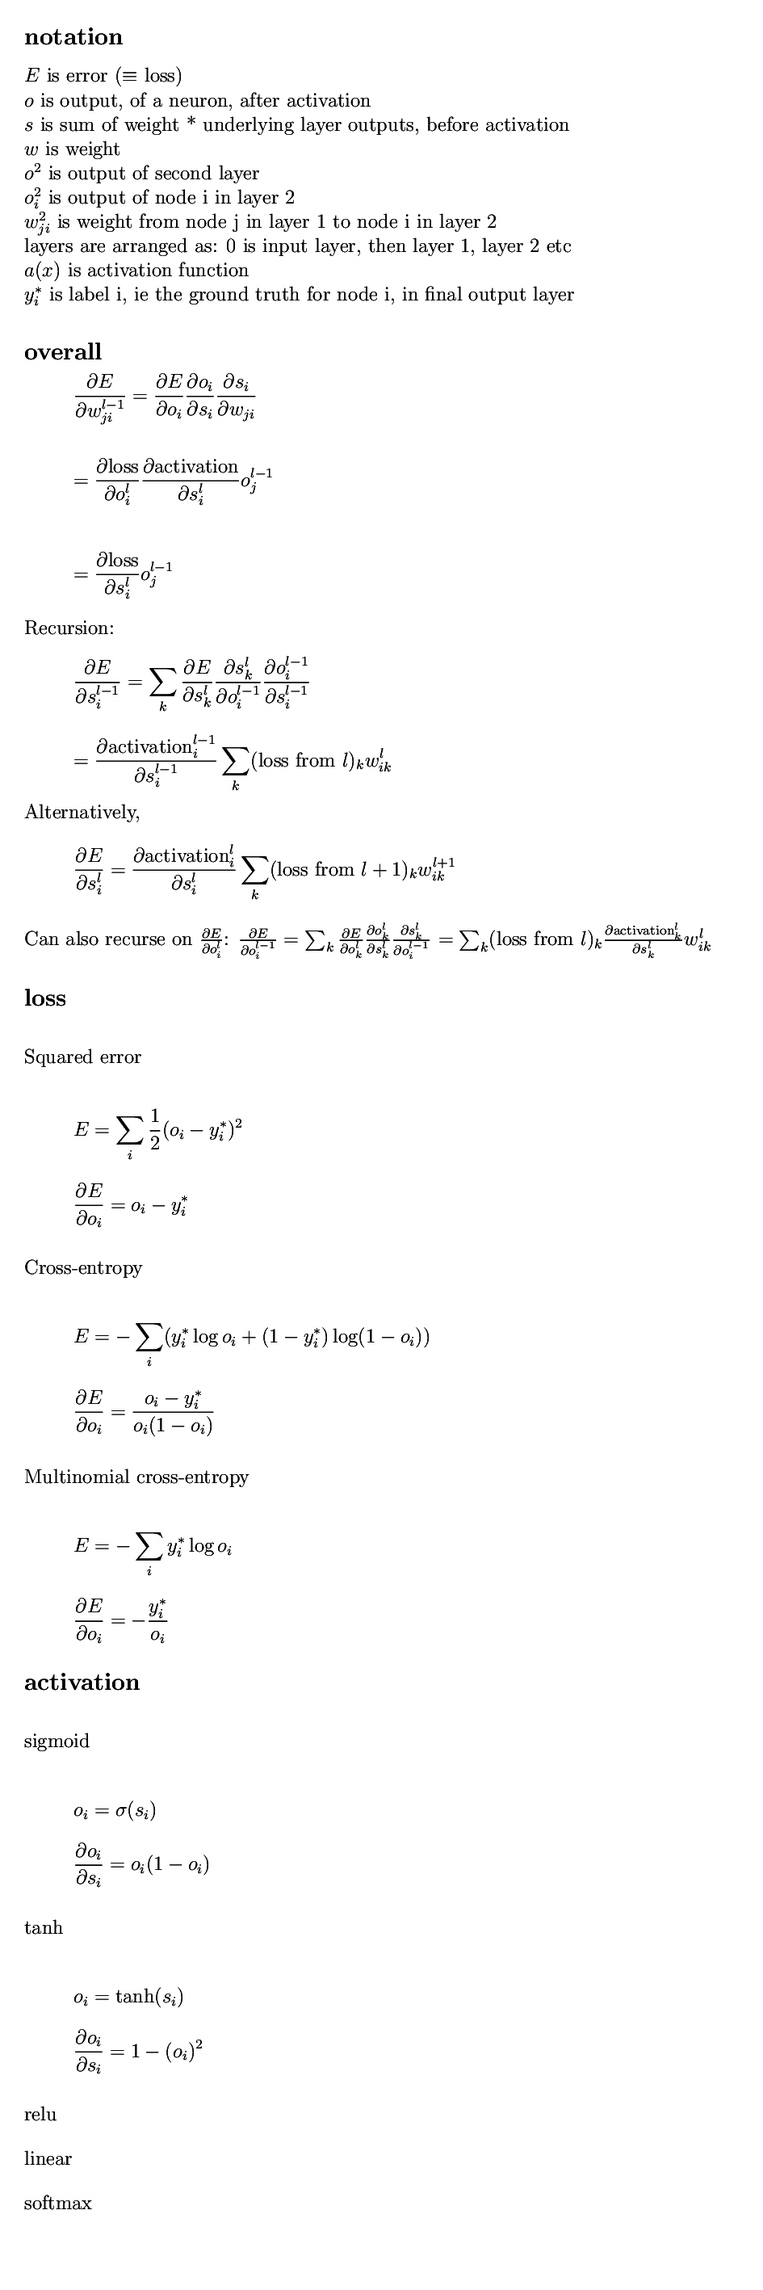
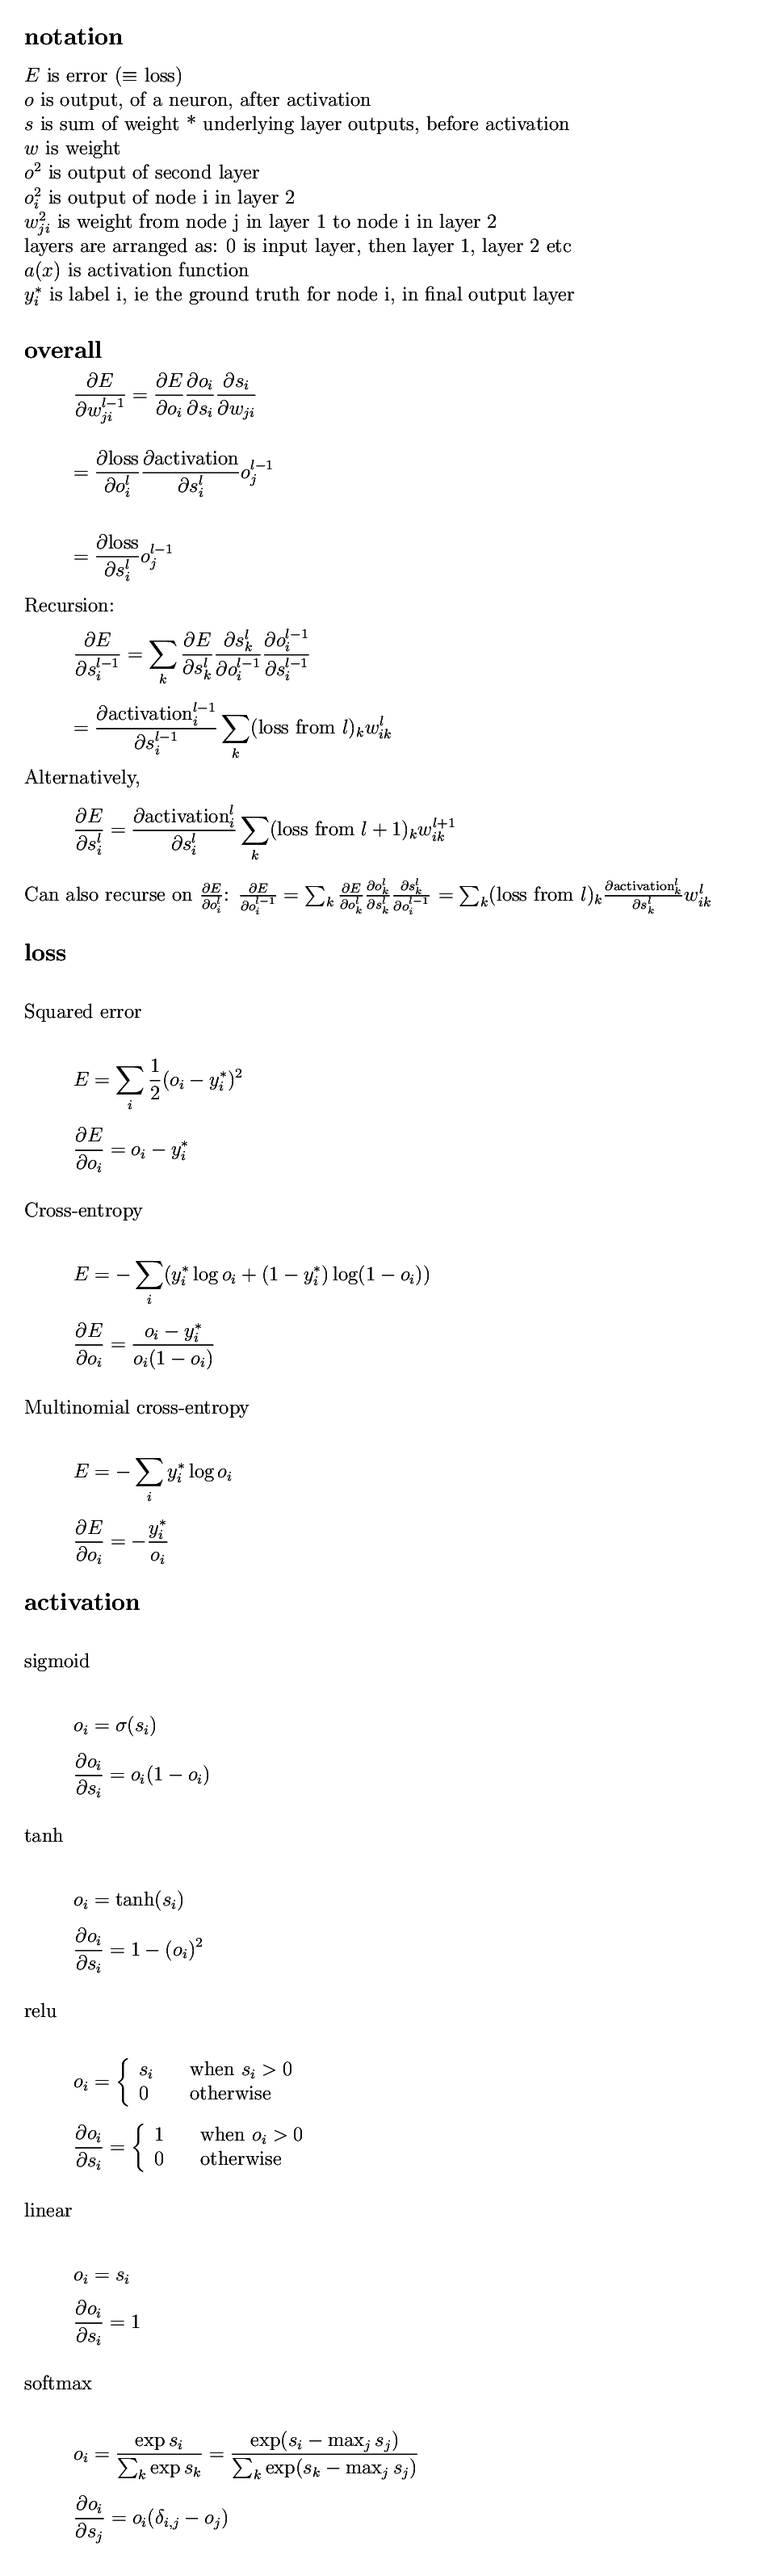
fill in missing formulae, for completeness

diff --git a/notes-formulae.tex b/notes-formulae.tex
@@ -17,7 +17,7 @@
 %\newgeometry{left=2cm,bottom=1.5cm,top=1.5cm,right=2cm}
 %\usepackage{geometry}
 \usepackage[margin=0.2in]{geometry}
-\geometry{paperwidth=16cm,paperheight=48cm}
+\geometry{paperwidth=16cm,paperheight=54cm}
 
 \newcommand{\ult}{\vspace{12px}\noindent}
 \newcommand{\ul}{\\ \indent -  }
@@ -83,17 +83,38 @@ Can also recurse on $\partialderivative{E}{o^l_i}$: $\partialderivative{E}{o^{l-
 
 \ult{sigmoid}
 
-\[ o_i = \sigma(s_i) \] \[ \partialderivative{o_i}{s_i} = o_i(1-o_i) \]
+\[ o_i = \sigma(s_i) \] 
+\[ \partialderivative{o_i}{s_i} = o_i(1-o_i) \]
 
 \ult{tanh}
 
-\[ o_i = \tanh(s_i) \] \[ \partialderivative{o_i}{s_i} = 1-(o_i)^2 \]
+\[ o_i = \tanh(s_i) \] 
+\[ \partialderivative{o_i}{s_i} = 1-(o_i)^2 \]
 
 \ult{relu}
 
+\[ o_i = \left\{
+    \begin{array}{l l}
+        s_i & \quad \text{when $s_i > 0$} \\
+        0 & \quad \text{otherwise} 
+    \end{array} \right.
+\] 
+\[ \partialderivative{o_i}{s_i} = \left\{
+    \begin{array}{l l}
+        1 & \quad \text{when $o_i > 0$} \\
+        0 & \quad \text{otherwise} 
+    \end{array} \right.
+\] 
+
 \ult{linear}
 
+\[ o_i = s_i \] 
+\[ \partialderivative{o_i}{s_i} = 1 \]
+
 \ult{softmax}
+
+\[ o_i = \frac{ \exp s_i }{\sum_k \exp s_k} = \frac{\exp (s_i - \max_j s_j) }{\sum_k \exp( s_k -\max_j s_j)} \] 
+\[ \partialderivative{o_i}{s_j} = o_i(\delta_{i,j} - o_j) \]
 
 \end{document}
 

diff --git a/README.md b/README.md
@@ -223,6 +223,7 @@ make testmnist-softmax
 | ~v0.2c (*)  | 0.0001 | 32 | 5 | 2 | 12 | 80.4 seconds | 98.2 +/- ? |
 | next v0.3 | 0.0001 | 32 | 5 | 1 | 12 | 17.2 seconds | 97.5 +/- ? |
 | next v0.3 | 0.0001 | 32 | 5 | 1 | 20 | 17.2 seconds | 98.1 +/- ? |
+| next v0.3 | 0.0001 | 32 | 5 | 2 | 12 | 80.5 seconds | 98.3 +/- ? |
 
 * (*) Using earlier `testneuralnetmninstconvolve-experimental` executable, which used a `tanh` last layer activation, square loss, and provided an expected values array of `-0.5` for `false`, and `+0.5` for `true
 
